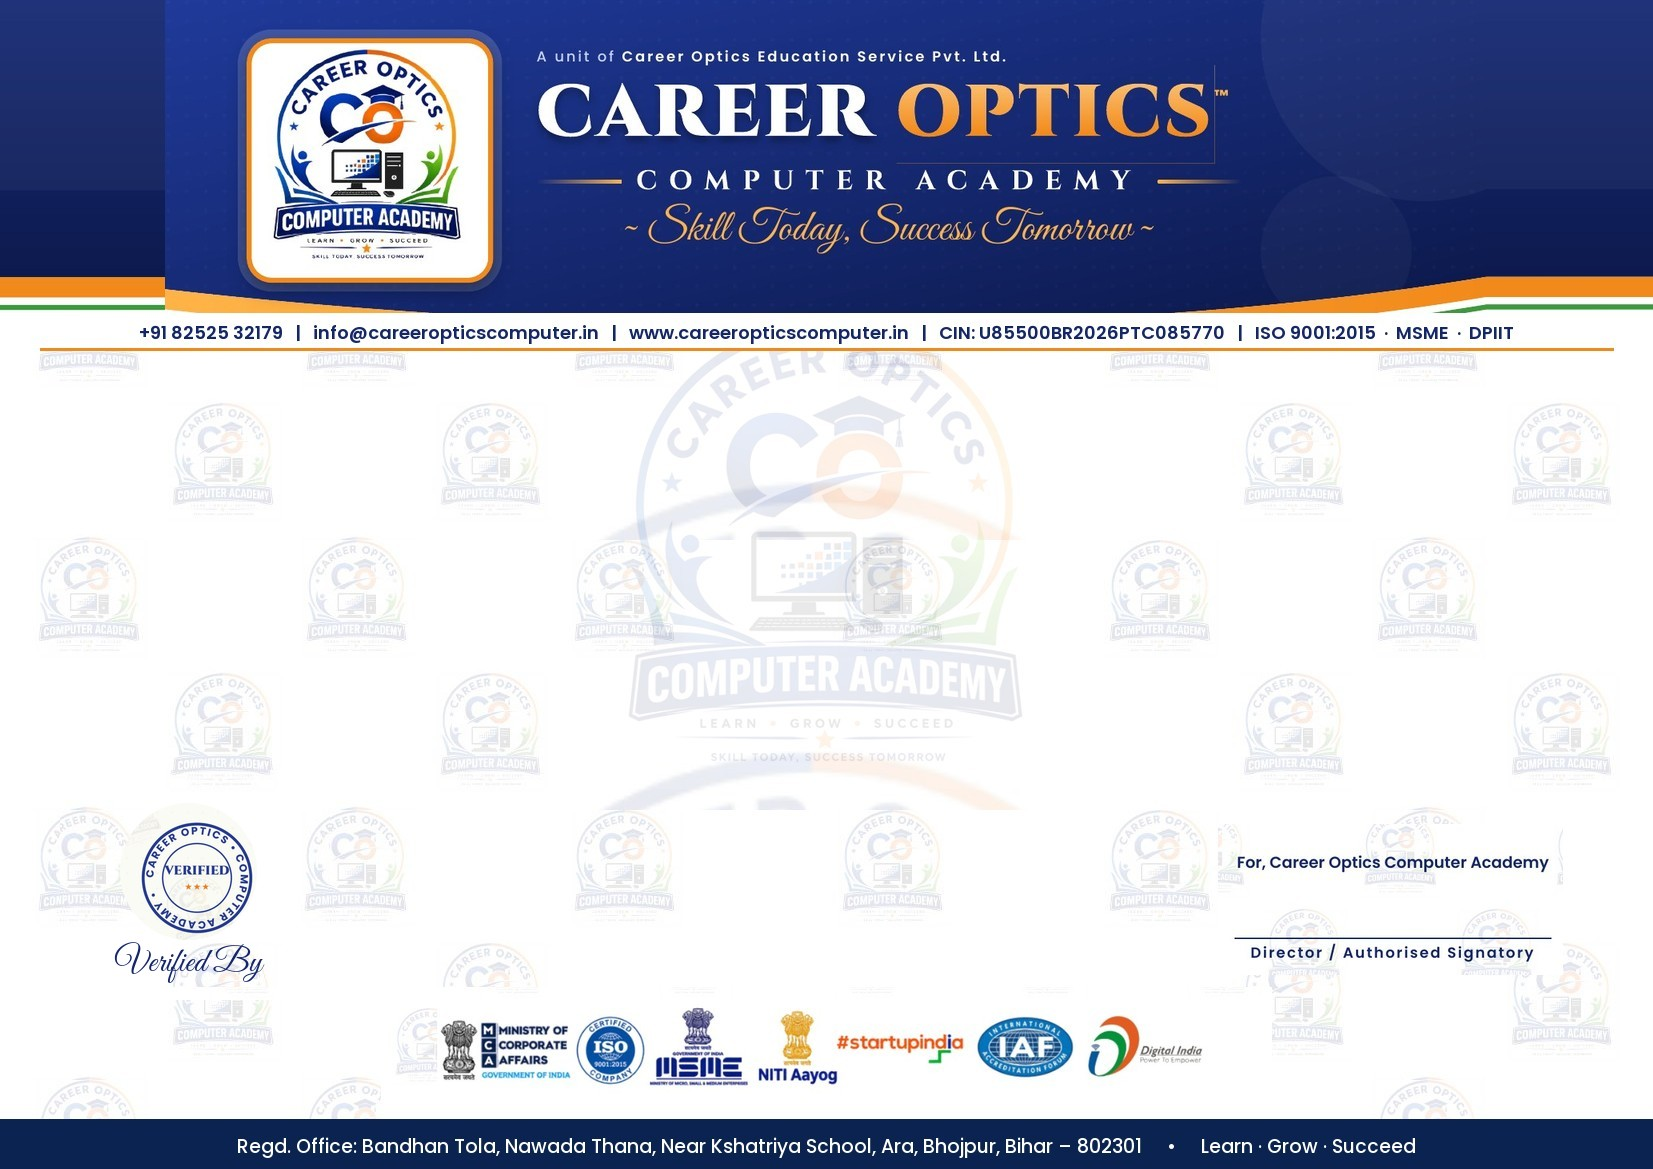
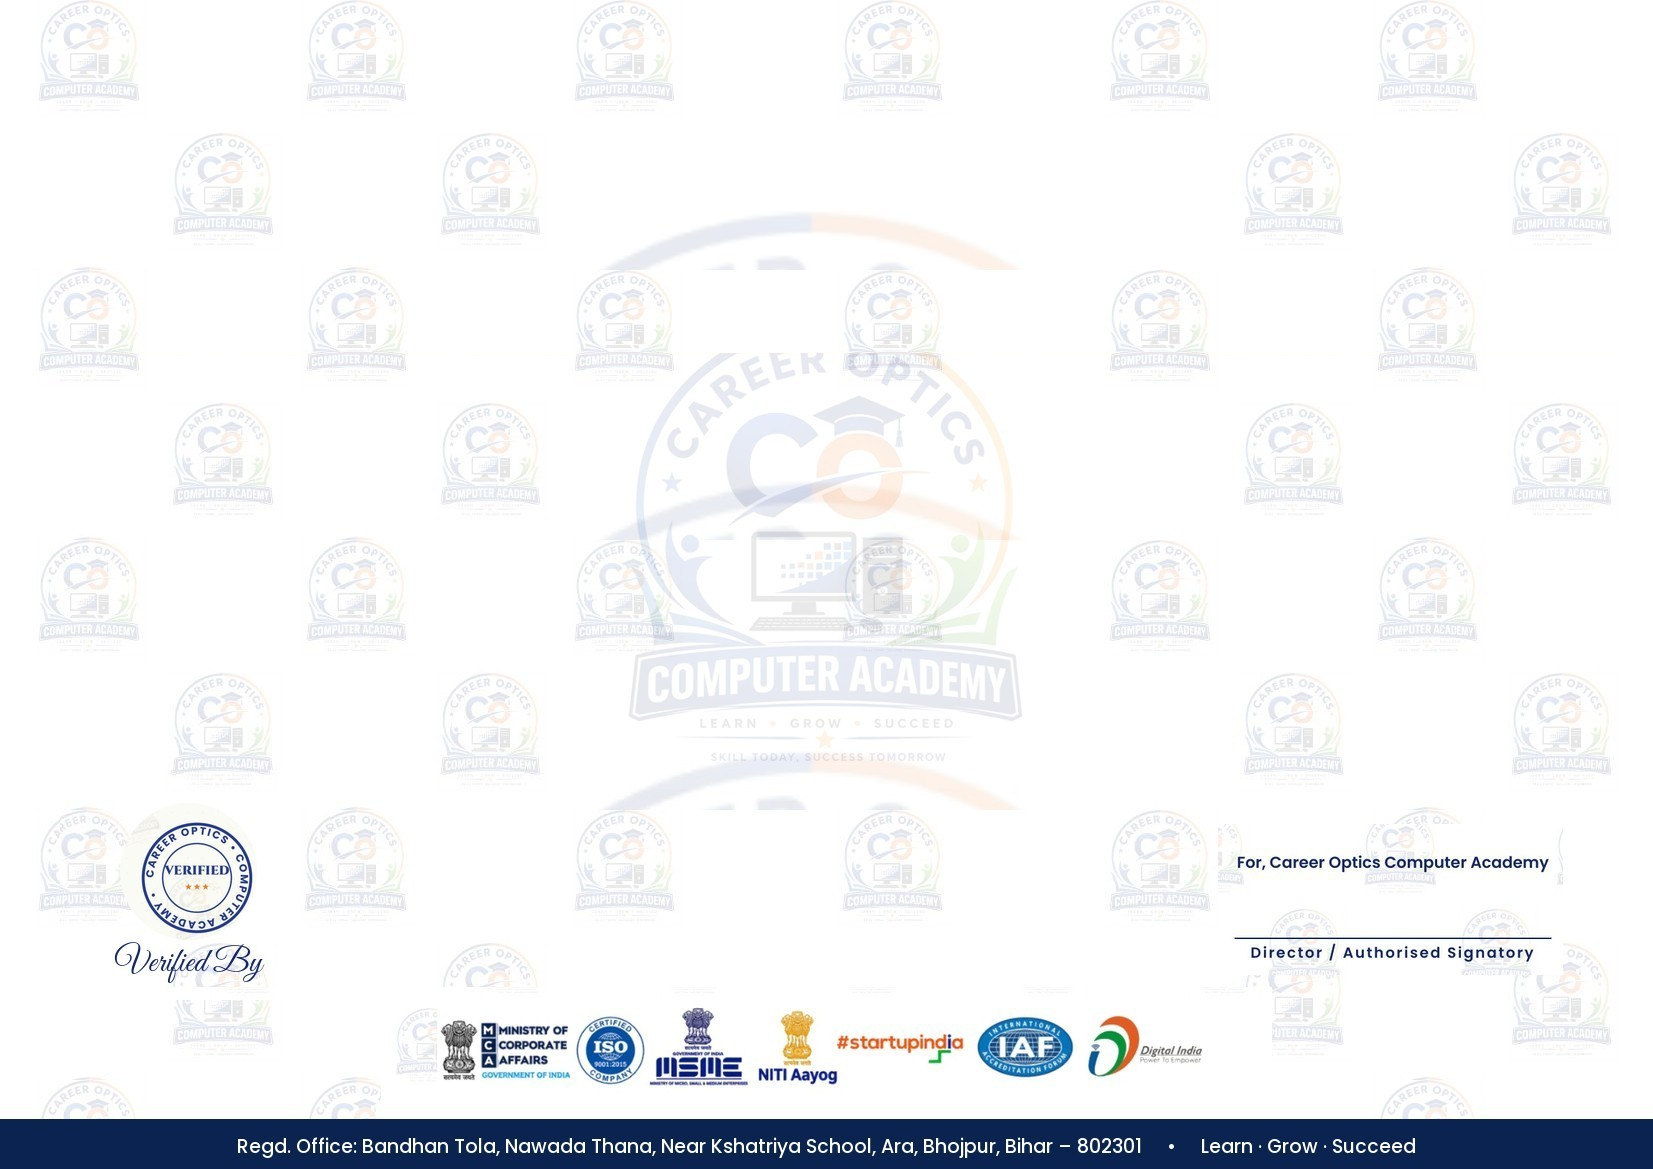
Keep the slip's own white header
The enrollment slip's header is drawn again by the builder (logo, name,
registrations, photograph) over the watermark, as the office preferred;
the artwork keeps the seal, signatory, logos and footer.

Changed region(s): [[0.0, 0.0, 1.0, 0.308]]

diff --git a/organization/src/lib/brand/brandDocuments.ts b/organization/src/lib/brand/brandDocuments.ts
@@ -832,22 +832,38 @@ const SLIP = { w: 595.3, h: 419.5 };
  * enrolment check.
  */
 export async function drawEnrollmentSlip(doc: jsPDF, e: EnrollmentSlip) {
-  await registerBrandFonts(doc, ["Poppins-Regular", "Poppins-Medium", "Poppins-SemiBold", "Poppins-Bold", "Poppins-ExtraBold"]);
+  await registerBrandFonts(doc, ["Poppins-Regular", "Poppins-Medium", "Poppins-SemiBold", "Poppins-Bold", "Poppins-ExtraBold", "GreatVibes-Regular"]);
   await background(doc, "enrollment-slip.jpg", SLIP.w, SLIP.h);
   const left = 24;
   const right = SLIP.w - 24;
   const W = right - left;
   const line = (x1: number, y1: number, x2: number, y2: number) => doc.line(pt(x1), pt(y1), pt(x2), pt(y2));
 
-  // Title pill under the contact lines
+  // Header: logo, name, registrations; photograph at the right
+  const logo = await documentArtwork("../career-optics-logo.png");
+  if (logo) picture(doc, logo, left + 2, 14, 62, 62);
+  put(doc, "CAREER OPTICS", { x: SLIP.w / 2, y: 34, size: 22, font: "Poppins-ExtraBold", color: NAVY, align: "center", charSpace: 1 });
+  doc.setFillColor(...rgb(ORANGE));
+  doc.roundedRect(pt(SLIP.w / 2 - 95), pt(39), pt(190), pt(13), pt(2), pt(2), "F");
+  put(doc, "COMPUTER ACADEMY", { x: SLIP.w / 2, y: 48.5, size: 8.5, font: "Poppins-Bold", color: "#ffffff", align: "center", charSpace: 2.2 });
+  put(doc, "Learn · Grow · Succeed", { x: SLIP.w / 2, y: 64, size: 13, font: "GreatVibes-Regular", color: GREEN, align: "center" });
+  put(doc, "Run under: Career Optics Education Service Private Limited", { x: SLIP.w / 2, y: 74, size: 6.3, font: "Poppins-SemiBold", color: "#1a1a1a", align: "center" });
+  put(doc, "Incorporated under the Companies Act, 2013 (Ministry of Corporate Affairs, Govt. of India)  |  CIN: U85500BR2026PTC085770", { x: SLIP.w / 2, y: 82, size: 5.8, font: "Poppins-Regular", color: "#1a1a1a", align: "center" });
+  put(doc, "An ISO 9001:2015 Certified Institute  |  MSME Registered  |  DPIIT Recognised Startup", { x: SLIP.w / 2, y: 90, size: 5.8, font: "Poppins-SemiBold", color: RED, align: "center" });
+  doc.setDrawColor(...rgb(ORANGE));
+  doc.setLineWidth(pt(1));
+  doc.rect(pt(right - 66), pt(14), pt(66), pt(80));
+  if (!picture(doc, e.photo, right - 65, 15, 64, 78)) put(doc, "Photograph", { x: right - 33, y: 56, size: 6.5, font: "Poppins-Regular", color: "#8a8fa5", align: "center" });
+
+  // Title pill
   doc.setFillColor(...rgb(NAVY));
-  doc.roundedRect(pt(SLIP.w / 2 - 72), pt(131), pt(144), pt(14), pt(3), pt(3), "F");
-  put(doc, "ENROLLMENT SLIP", { x: SLIP.w / 2, y: 141, size: 9.5, font: "Poppins-ExtraBold", color: "#ffffff", align: "center", charSpace: 1.8 });
+  doc.roundedRect(pt(SLIP.w / 2 - 72), pt(99), pt(144), pt(14), pt(3), pt(3), "F");
+  put(doc, "ENROLLMENT SLIP", { x: SLIP.w / 2, y: 109, size: 9.5, font: "Poppins-ExtraBold", color: "#ffffff", align: "center", charSpace: 1.8 });
 
   // Row of three: enrolment number, centre code, date of admission
   doc.setDrawColor(...rgb(NAVY));
   doc.setLineWidth(pt(0.7));
-  let y = 150;
+  let y = 120;
   const cw = W / 3;
   doc.setFillColor(232, 236, 246);
   doc.rect(pt(left), pt(y), pt(W), pt(11), "F");
@@ -858,7 +874,7 @@ export async function drawEnrollmentSlip(doc: jsPDF, e: EnrollmentSlip) {
   line(left + 2 * cw, y, left + 2 * cw, y + 24);
   y += 24;
 
-  // Particulars with the photograph in the block's right end
+  // Particulars
   const rows: Array<[string, string]> = [
     ["Name of Student", e.name.toUpperCase()],
     ["Date of Birth", e.dateOfBirth ? ddmmyyyy(e.dateOfBirth).replace(/-/g, "/") : ""],
@@ -866,20 +882,16 @@ export async function drawEnrollmentSlip(doc: jsPDF, e: EnrollmentSlip) {
     ["Mother's Name", (e.motherName || "").toUpperCase()],
     ["Mobile / Session", [e.mobile, e.session].filter(Boolean).join("   ·   ")],
   ];
-  const blockH = 60;
+  const blockH = 62;
   doc.rect(pt(left), pt(y), pt(W), pt(blockH));
-  doc.setDrawColor(...rgb(ORANGE));
-  doc.setLineWidth(pt(1));
-  doc.rect(pt(right - 54), pt(y + 4), pt(48), pt(52));
-  if (!picture(doc, e.photo, right - 53, y + 5, 46, 50)) put(doc, "Photo", { x: right - 32, y: y + 36, size: 6.5, font: "Poppins-Regular", color: "#8a8fa5", align: "center" });
   doc.setDrawColor(...rgb(NAVY));
   doc.setLineWidth(pt(0.7));
   let ry = y + 12;
   for (const [label, value] of rows) {
     put(doc, label, { x: left + 8, y: ry, size: 7.6, font: "Poppins-Bold", color: NAVY });
     put(doc, ":", { x: left + 84, y: ry, size: 7.6, font: "Poppins-Bold", color: NAVY });
-    put(doc, value || "—", { x: left + 90, y: ry, size: 8, font: "Poppins-SemiBold", color: "#1a1a1a", maxWidth: W - 90 - 70 });
-    ry += 11.5;
+    put(doc, value || "—", { x: left + 90, y: ry, size: 8, font: "Poppins-SemiBold", color: "#1a1a1a", maxWidth: W - 98 });
+    ry += 12;
   }
   y += blockH;
 
